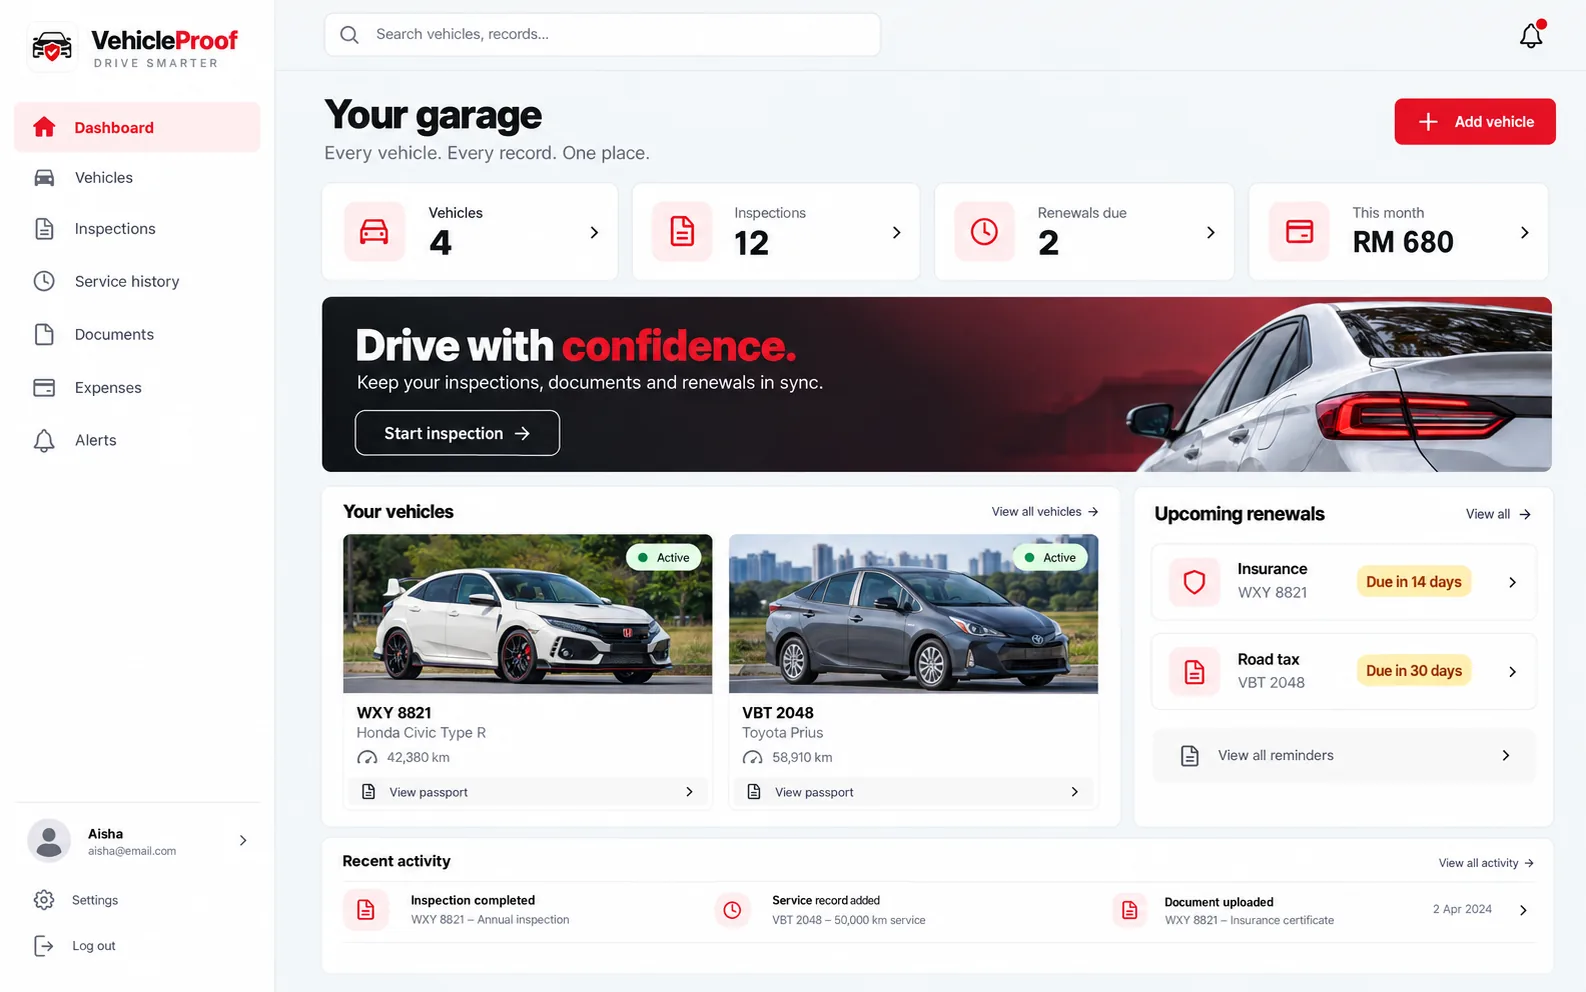
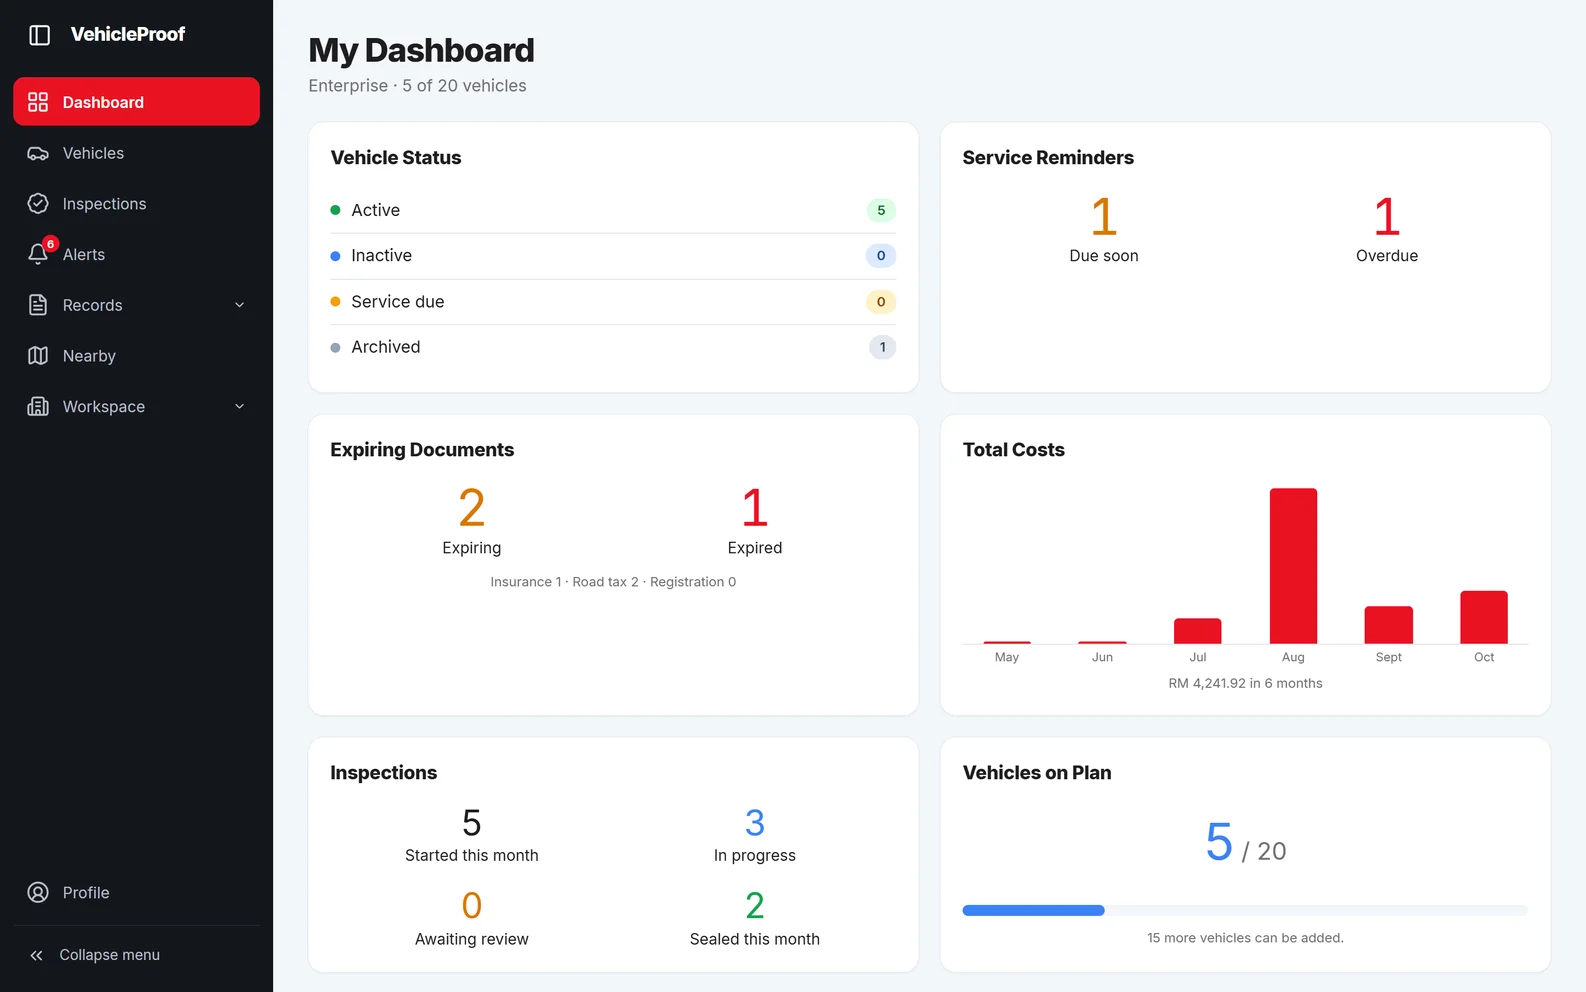
Screenshots section: every iPhone and web app screen in one place
The web app images were concept images; they are now screenshots of the
real React web app with sample vehicles. One section with an iPhone app
and a Web app tab replaces the web app section, and the nav links to it.

diff --git a/src/components/AppScreens.tsx b/src/components/AppScreens.tsx
@@ -1,0 +1,103 @@
+import { useRef, useState, type KeyboardEvent } from 'react';
+import { Browser, type WebScreen } from './Browser';
+import { Iphone, type ScreenName } from './Iphone';
+
+// Every screenshot of the iPhone app and the web app, in one place: a tab for
+// each, and a row of screens to scroll through. Both rows are in the page, so
+// the iPhone row shows without the script; the web row loads when opened.
+
+const phoneScreens: { screen: ScreenName; title: string; alt: string }[] = [
+  { screen: 'home', title: 'Home', alt: 'The home screen with the garage and shortcuts to every record' },
+  { screen: 'vehicles', title: 'Vehicles', alt: 'Vehicles shown as cards with a photo, plate and odometer' },
+  { screen: 'passport', title: 'Vehicle passport', alt: "A vehicle's passport with its photo, details and every kind of record" },
+  { screen: 'new-inspection', title: 'New inspection', alt: 'Choosing a check-in, check-out, routine or pre-purchase inspection' },
+  { screen: 'camera', title: 'Guided camera', alt: 'The guided camera photographing the front-right corner of a car' },
+  { screen: 'checklist', title: 'Capture checklist', alt: 'An inspection with each required angle ticked off as it is photographed' },
+  { screen: 'summary', title: 'Condition summary', alt: 'An inspection summary with damage marked around a car' },
+  { screen: 'report', title: 'Sealed report', alt: 'A sealed check-out report with all nine required views' },
+  { screen: 'compare', title: 'Compare photos', alt: 'A check-in photo and a check-out photo compared with a slider' },
+  { screen: 'inspections', title: 'Inspection history', alt: 'Check-ins, check-outs and service visits on a timeline' },
+  { screen: 'service', title: 'Service history', alt: 'Service records by date, with workshop and cost' },
+  { screen: 'insurance', title: 'Insurance', alt: 'Insurance policies for a vehicle with their expiry dates' },
+  { screen: 'alerts', title: 'Alerts', alt: 'Reminders for road tax, insurance and services that are due' },
+];
+
+const webScreens: { screen: WebScreen; title: string; alt: string }[] = [
+  { screen: 'dashboard', title: 'Dashboard', alt: 'The web app dashboard: vehicle status, reminders, expiring documents, costs and inspections' },
+  { screen: 'vehicles', title: 'Vehicles', alt: 'Every vehicle in a searchable table with year, odometer and status' },
+  { screen: 'passport', title: 'Vehicle passport', alt: "A vehicle's passport with its photo, recent inspections, documents and alerts" },
+  { screen: 'report', title: 'Inspection report', alt: 'A sealed check-in inspection with every angle marked around the car' },
+  { screen: 'compare', title: 'Compare photos', alt: 'Check-in and check-out photos of a car compared with a slider, showing a new scratch' },
+  { screen: 'service', title: 'Service history', alt: 'Service records for every vehicle with workshop, odometer and amount' },
+  { screen: 'alerts', title: 'Alerts', alt: 'Overdue and upcoming road tax, insurance and service alerts for the fleet' },
+];
+
+type Tab = 'phone' | 'web';
+const tabs: { id: Tab; label: string }[] = [
+  { id: 'phone', label: 'iPhone app' },
+  { id: 'web', label: 'Web app' },
+];
+
+export function AppScreens() {
+  const [tab, setTab] = useState<Tab>('phone');
+  const rows = useRef<Partial<Record<Tab, HTMLUListElement | null>>>({});
+
+  const scroll = (direction: 1 | -1) => {
+    const row = rows.current[tab];
+    row?.scrollBy({ left: direction * row.clientWidth * 0.8, behavior: 'smooth' });
+  };
+
+  // Arrow keys move between the tabs, as in any tab list.
+  const onKey = (event: KeyboardEvent) => {
+    if (event.key !== 'ArrowLeft' && event.key !== 'ArrowRight') return;
+    const next = tab === 'phone' ? 'web' : 'phone';
+    setTab(next);
+    document.getElementById(`screens-tab-${next}`)?.focus();
+  };
+
+  return (
+    <div className="screens">
+      <div className="screens-bar">
+        <div className="screens-tabs" role="tablist" aria-label="Screenshots" onKeyDown={onKey}>
+          {tabs.map((item) => (
+            <button
+              key={item.id}
+              id={`screens-tab-${item.id}`}
+              type="button"
+              role="tab"
+              aria-selected={tab === item.id}
+              aria-controls={`screens-${item.id}`}
+              tabIndex={tab === item.id ? 0 : -1}
+              onClick={() => setTab(item.id)}
+            >
+              {item.label}
+            </button>
+          ))}
+        </div>
+        <div className="screens-arrows">
+          <button type="button" onClick={() => scroll(-1)} aria-label="Previous screens">‹</button>
+          <button type="button" onClick={() => scroll(1)} aria-label="Next screens">›</button>
+        </div>
+      </div>
+
+      <ul id="screens-phone" className="screens-row phone" role="tabpanel" aria-labelledby="screens-tab-phone"
+        hidden={tab !== 'phone'} ref={(el) => { rows.current.phone = el; }}>
+        {phoneScreens.map((item) => (
+          <li key={item.screen}>
+            <Iphone screen={item.screen} size="gallery" alt={item.alt} />
+            <p>{item.title}</p>
+          </li>
+        ))}
+      </ul>
+      <ul id="screens-web" className="screens-row web" role="tabpanel" aria-labelledby="screens-tab-web"
+        hidden={tab !== 'web'} ref={(el) => { rows.current.web = el; }}>
+        {webScreens.map((item) => (
+          <li key={item.screen}>
+            <Browser screen={item.screen} alt={item.alt} sizes="(max-width: 760px) 86vw, 720px" />
+            <p>{item.title}</p>
+          </li>
+        ))}
+      </ul>
+    </div>
+  );
+}

diff --git a/src/styles.css b/src/styles.css
@@ -135,6 +135,38 @@ section { padding: clamp(76px, 11vw, 110px) 0; text-align: center; }
 .browser.small .bar { height: 24px; }
 .browser.small .bar i { width: 8px; height: 8px; }
 .web-main { margin-top: 64px; }
+
+/* ---------- Screenshots: a tab for each app, and a row of screens to scroll ---------- */
+.screens { margin-top: 48px; }
+.screens-bar { display: flex; align-items: center; justify-content: center; position: relative; }
+.screens-tabs { display: inline-flex; padding: 4px; border-radius: 999px; background: #e8e8ed; }
+.screens-tabs button {
+  min-height: 40px; padding: 0 22px; border: 0; border-radius: 999px; background: none;
+  font: inherit; font-size: 15px; font-weight: 600; color: var(--muted); cursor: pointer;
+}
+.screens-tabs button[aria-selected="true"] { background: #fff; color: #1d1d1f; box-shadow: 0 1px 4px rgba(0, 0, 0, .12); }
+.screens-arrows { position: absolute; right: 0; display: flex; gap: 10px; }
+.screens-arrows button {
+  width: 40px; height: 40px; border: 0; border-radius: 50%; background: #e8e8ed; color: #1d1d1f;
+  font: 400 26px/1 Inter, sans-serif; cursor: pointer; padding-bottom: 3px;
+}
+.screens-arrows button:hover { background: #dcdce1; }
+/* The row runs into the page's side margins, so screens slide in from the edge. */
+.screens-row {
+  list-style: none; margin: 30px -22px 0; padding: 20px 22px 40px;
+  display: flex; gap: 28px; overflow-x: auto; scroll-snap-type: x mandatory; scroll-padding-inline: 22px; scrollbar-width: none;
+}
+.screens-row::-webkit-scrollbar { display: none; }
+.screens-row[hidden] { display: none; }
+.screens-row li { flex: none; scroll-snap-align: start; }
+.screens-row p { margin: 18px 0 0; font-size: 16px; font-weight: 600; }
+.screens-row.web li { width: min(720px, 86vw); }
+.screens-row.web .browser { box-shadow: 0 22px 30px -24px rgba(0, 0, 0, .3); }
+/* A tighter shadow, so the scrolling row doesn't cut it off at its edges. */
+.iphone.iphone-gallery {
+  --w: min(240px, 62vw);
+  box-shadow: inset 0 0 0 1px rgba(255, 255, 255, .7), 0 0 0 1px rgba(0, 0, 0, .1), 0 22px 30px -24px rgba(0, 0, 0, .4);
+}
 .web-more { display: grid; grid-template-columns: 1fr 1fr; gap: 24px; margin-top: 24px; }
 .web-more p { margin: 12px 0 0; font-size: 14px; color: var(--muted); }
 
@@ -328,6 +360,7 @@ th { font-weight: 600; font-size: 13px; color: var(--muted); text-transform: upp
   .card, .tile { padding-left: 28px; padding-right: 28px; }
   .links-row { flex-direction: column; align-items: center; }
   .browser .bar span { padding: 3px 20px; }
+  .screens-arrows { display: none; }
   .lead-grid, .columns.two, .card.wide .points { grid-template-columns: 1fr; }
   .card.wide { grid-column: auto; }
   .lead-wide { grid-column: auto; }

diff --git a/src/pages/Home.tsx b/src/pages/Home.tsx
@@ -1,3 +1,4 @@
+import { AppScreens } from '../components/AppScreens';
 import { Browser } from '../components/Browser';
 import { Iphone, type ScreenName } from '../components/Iphone';
 import { LeadForm } from '../components/LeadForm';
@@ -181,19 +182,20 @@ export default function Home() {
         </div>
       </section>
 
-      <section className="soft" id="web-app">
+      <section className="soft" id="screens">
         <div className="wrap">
-          <Reveal as="p" className="kicker red">Web app</Reveal>
-          <Reveal as="h2" delay={1} className="headline">Your whole fleet.<br />On one screen.</Reveal>
-          <Reveal className="web-main">
-            <Browser screen="dashboard" alt="The VehicleProof web app: the dashboard with vehicles, renewals and recent activity" />
+          <Reveal as="p" className="kicker red">Screenshots</Reveal>
+          <Reveal as="h2" delay={1} className="headline">See the apps.</Reveal>
+          <Reveal as="p" delay={2} className="lede">
+            Your team works on iPhone. The office sees the whole fleet in the web app.
           </Reveal>
+          <Reveal><AppScreens /></Reveal>
           <div className="columns four">
             {webFeatures.map((item, i) => (
               <Reveal key={item.title} delay={delays[i]}><b>{item.title}</b><span>{item.text}</span></Reveal>
             ))}
           </div>
-          <Reveal as="p" className="note">Included with Enterprise.</Reveal>
+          <Reveal as="p" className="note">The web app is included with Enterprise.</Reveal>
         </div>
       </section>
 

diff --git a/src/components/Iphone.tsx b/src/components/Iphone.tsx
@@ -2,7 +2,9 @@
 // The frame is drawn in CSS, so it stays sharp at any size: --w on .iphone
 // sets the width and everything else scales from it.
 
-export type ScreenName = 'home' | 'camera' | 'summary' | 'compare' | 'service' | 'alerts';
+export type ScreenName =
+  | 'home' | 'vehicles' | 'passport' | 'inspections' | 'new-inspection' | 'checklist' | 'camera'
+  | 'summary' | 'report' | 'compare' | 'service' | 'insurance' | 'alerts';
 
 /** Screens whose top edge is black (the camera), so the status bar is white. */
 const darkTop: ScreenName[] = ['camera'];
@@ -10,8 +12,8 @@ const darkTop: ScreenName[] = ['camera'];
 type IphoneProps = {
   screen: ScreenName;
   alt: string;
-  /** Size class: the hero phone, a step in a row, or a phone inside a tile. */
-  size: 'hero' | 'step' | 'tile';
+  /** Size class: the hero phone, a step in a row, a phone inside a tile, or one in the screenshot gallery. */
+  size: 'hero' | 'step' | 'tile' | 'gallery';
   /** Load straight away (the first image on the page) instead of when near. */
   eager?: boolean;
 };
@@ -20,6 +22,7 @@ const sizes: Record<IphoneProps['size'], string> = {
   hero: '(max-width: 600px) 66vw, 280px',
   step: '(max-width: 760px) 60vw, 200px',
   tile: '(max-width: 760px) 60vw, 210px',
+  gallery: '(max-width: 760px) 62vw, 240px',
 };
 
 export function Iphone({ screen, alt, size, eager = false }: IphoneProps) {

diff --git a/src/components/Browser.tsx b/src/components/Browser.tsx
@@ -1,15 +1,18 @@
-// A web app screen in a plain browser window.
+// A web app screen in a plain browser window. The screens are screenshots of
+// the real web app (portal.vehicleproof.app) with sample vehicles.
 
-export type WebScreen = 'dashboard' | 'passport' | 'compare';
+export type WebScreen = 'dashboard' | 'vehicles' | 'passport' | 'report' | 'compare' | 'service' | 'alerts';
 
 type BrowserProps = {
   screen: WebScreen;
   alt: string;
   /** The small version drops the address and shrinks the title bar. */
   small?: boolean;
+  /** How wide the image shows, when it isn't the full-width or small default. */
+  sizes?: string;
 };
 
-export function Browser({ screen, alt, small = false }: BrowserProps) {
+export function Browser({ screen, alt, small = false, sizes }: BrowserProps) {
   const base = `/assets/img/web-${screen}`;
   return (
     <div className={small ? 'browser small' : 'browser'}>
@@ -20,7 +23,7 @@ export function Browser({ screen, alt, small = false }: BrowserProps) {
       <img
         src={`${base}-1586.webp`}
         srcSet={`${base}-800.webp 800w, ${base}-1586.webp 1586w`}
-        sizes={small ? '(max-width: 760px) 92vw, 460px' : '(max-width: 980px) 92vw, 940px'}
+        sizes={sizes ?? (small ? '(max-width: 760px) 92vw, 460px' : '(max-width: 980px) 92vw, 940px')}
         width={1586}
         height={992}
         alt={alt}

diff --git a/src/components/Chrome.tsx b/src/components/Chrome.tsx
@@ -3,7 +3,7 @@ import { contactHref, supportEmail } from '../site';
 const navLinks = [
   { href: '/#industries', label: 'Industries' },
   { href: '/#how', label: 'How it works' },
-  { href: '/#web-app', label: 'Web app' },
+  { href: '/#screens', label: 'Screenshots' },
   { href: '/#plans', label: 'Pricing' },
   { href: '/personal/', label: 'Personal' },
   { href: '/blog/', label: 'Blog' },
